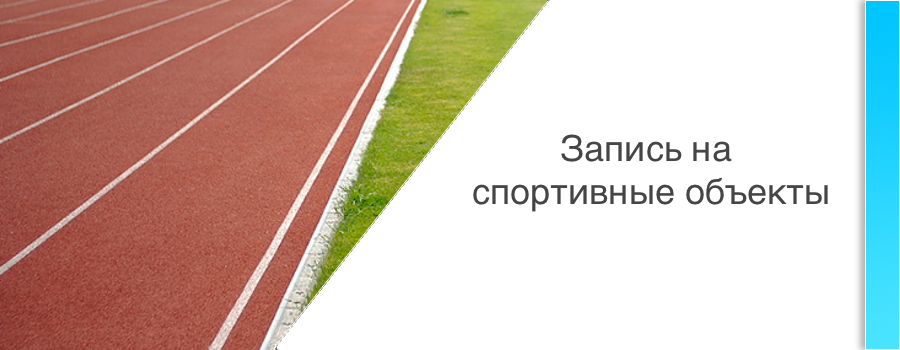
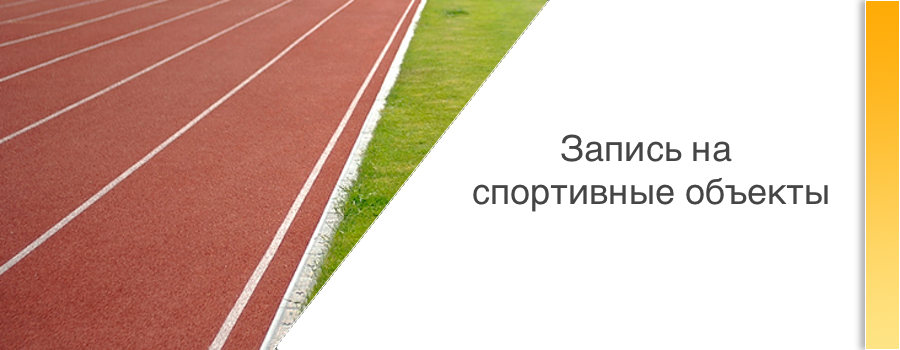
1

Changed region(s): [[0.9644, 0.0, 1.0, 1.0]]

diff --git a/SportPlaces/wwwroot/css/myStyle.css b/SportPlaces/wwwroot/css/myStyle.css
@@ -1,6 +1,6 @@
 .block {
-    height: 200px;
-    background-image: url(../images/Block.png);
+    height: 250px;
+    background-image: url(../images/LeftBlock.png);
     background-repeat: no-repeat;
 }
 

diff --git a/SportPlaces/Controllers/AccountController.cs b/SportPlaces/Controllers/AccountController.cs
@@ -42,10 +42,9 @@ namespace SportPlaces.Controllers
                 {
                     await Authenticate(model.Login); // аутентификация
 
-                    return RedirectToAction("Index", "Home");
+                    return RedirectToAction("Index", "DBPage");
                 }
                 model.Error = "Некорректные логин и(или) пароль";
-                //ModelState.AddModelError("", "Некорректные логин и(или) пароль");
             }
             return View(model);
         }

diff --git a/SportPlaces/Controllers/DBPageController.cs b/SportPlaces/Controllers/DBPageController.cs
@@ -8,7 +8,7 @@ using SportPlaces.Models;
 
 namespace SportPlaces.Controllers
 {
-    [Authorize]
+    //[Authorize]
     public class DBPageController : Controller
     {
         private readonly EntitiesContext _context;
